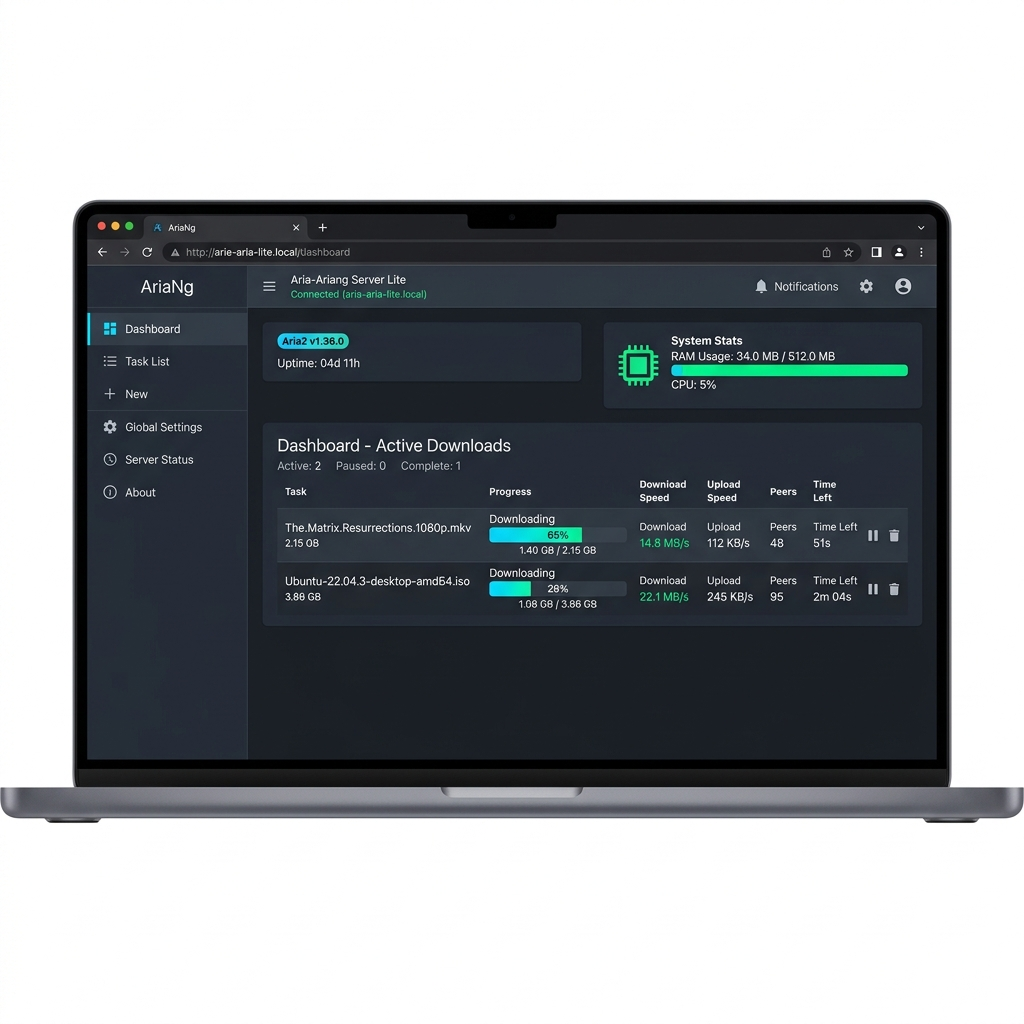
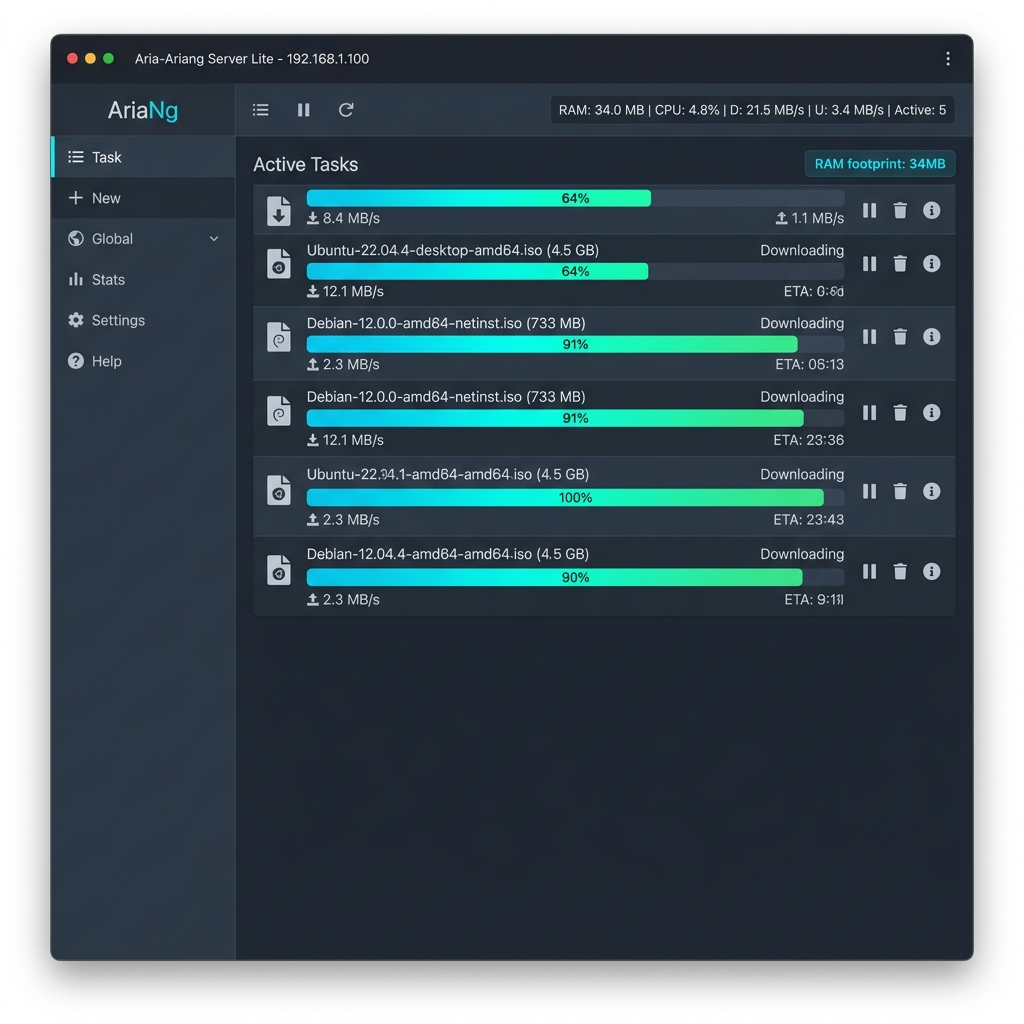
style: replace preview image with clean dark mode UI mockup without background frame

diff --git a/README.md b/README.md
@@ -5,7 +5,11 @@
 [![Docker Compose](https://img.shields.io/badge/Docker%20Compose-v2-blue?logo=docker)](https://docs.docker.com/compose/)
 [![RAM Usage](https://img.shields.io/badge/RAM%20Footprint-~30MB%20--%2060MB-brightgreen)](#performance--resource-footprint)
 [![License](https://img.shields.io/badge/License-MIT-green.svg)](LICENSE)
-![Aria-Ariang Server Lite Dashboard Preview](assets/preview.png)
+
+<p align="center">
+  <img src="assets/preview.png" alt="Aria-Ariang Server Lite Dashboard Preview" width="80%"/>
+</p>
+
 
 ---
 
